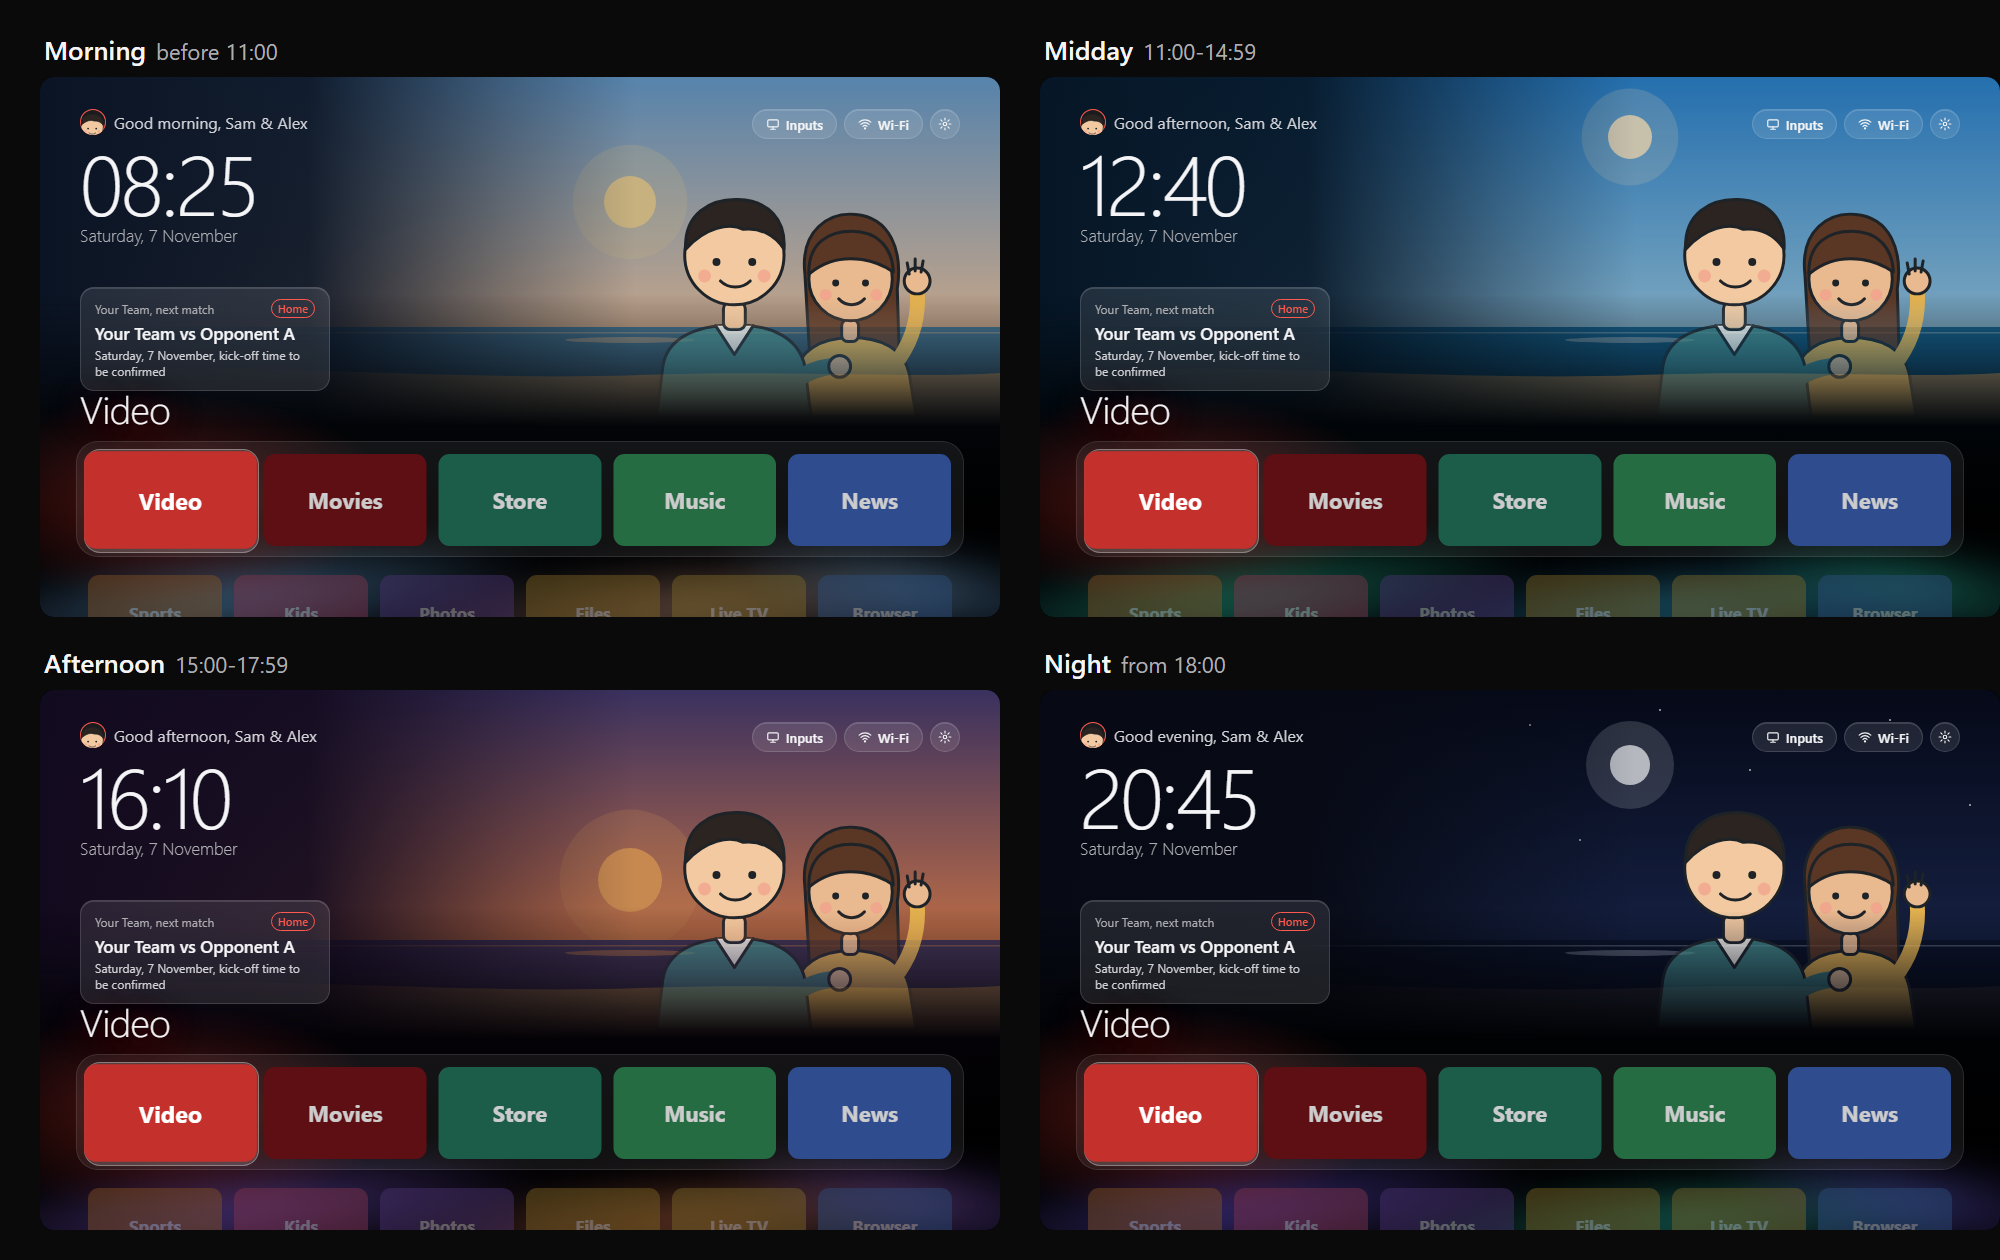
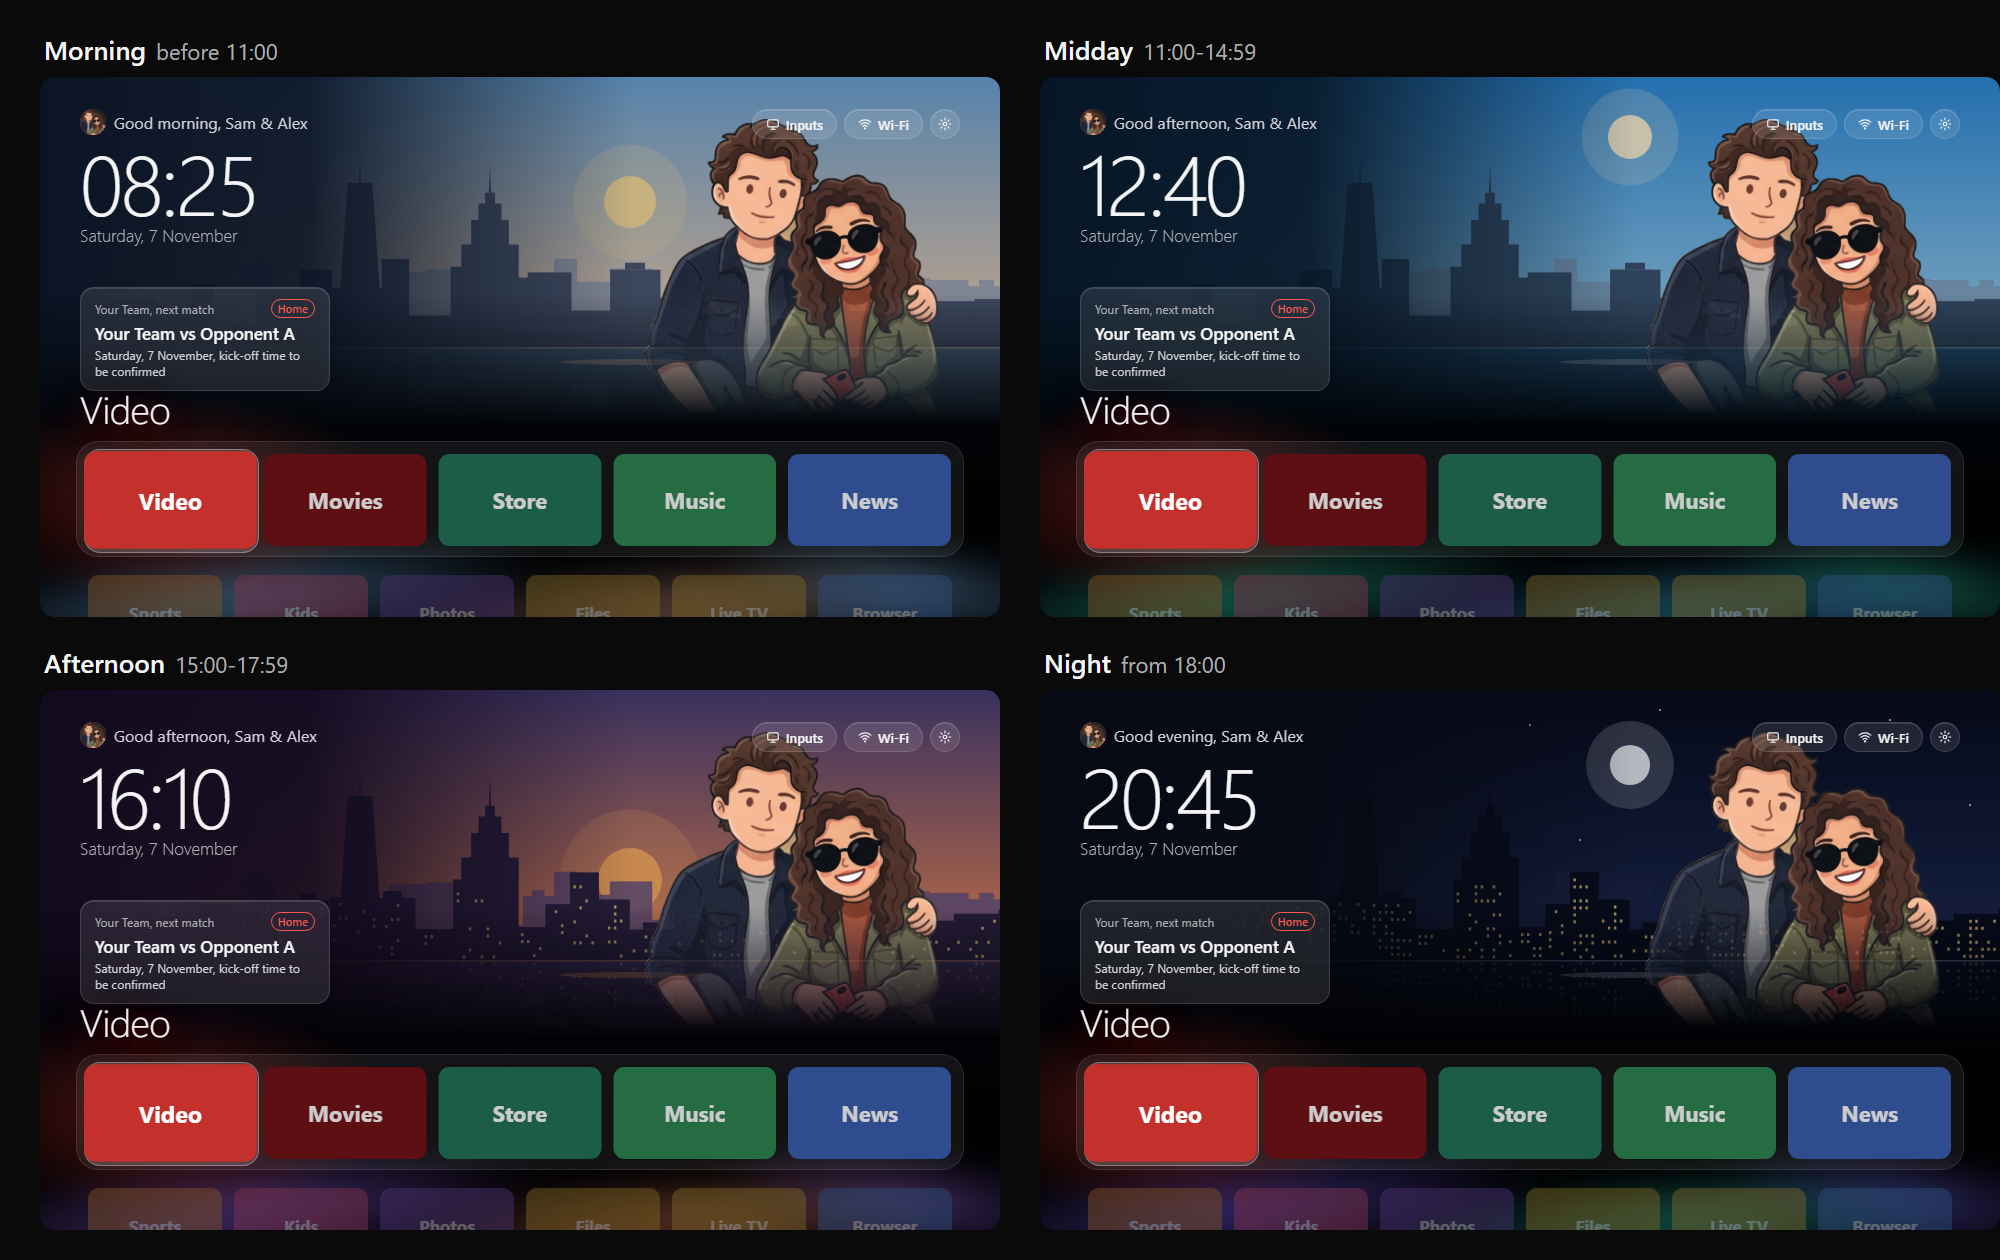
Mockup: example couple illustration and a New York skyline that follows the time of day

diff --git a/docs/mockup/index.html b/docs/mockup/index.html
@@ -34,10 +34,10 @@ const en = (q.get('lang') || 'en') === 'en';
 
 // Same colours as the app (launcher/.../Looks.kt).
 const SCENE = {
-  pagi:  { skyTop: '#6FA8DC', skyLow: '#FBD3B0', sun: '#FFE3A3', sunY: 250, sunR: 52, aSunY: 560, aSunR: 56, sea: '#5D9CC0', sheen: '#FFE3C2', sand: '#EED3A6', stars: 0 },
-  siang: { skyTop: '#2F8FE0', skyLow: '#9FD6F5', sun: '#FFF7DC', sunY: 120, sunR: 44, aSunY: 170, aSunR: 48, sea: '#1E7FB8', sheen: '#CFEFFF', sand: '#F1DCAE', stars: 0 },
-  sore:  { skyTop: '#4B3F7A', skyLow: '#F28C5A', sun: '#FFB067', sunY: 380, sunR: 64, aSunY: 680, aSunR: 72, sea: '#5B4A78', sheen: '#F6A06A', sand: '#D6A272', stars: 0 },
-  malam: { skyTop: '#070C1F', skyLow: '#1C2A55', sun: '#E9ECF5', sunY: 150, sunR: 40, aSunY: 210, aSunR: 44, sea: '#101C3D', sheen: '#AEB8D6', sand: '#34364E', stars: 0.9 }
+  pagi:  { skyTop: '#6FA8DC', skyLow: '#FBD3B0', sun: '#FFE3A3', sunY: 250, sunR: 52, aSunY: 560, aSunR: 56, sea: '#5D86A8', sheen: '#FFE3C2', far: '#9AA6BE', near: '#4F5B76', lit: 0, stars: 0 },
+  siang: { skyTop: '#2F8FE0', skyLow: '#9FD6F5', sun: '#FFF7DC', sunY: 120, sunR: 44, aSunY: 170, aSunR: 48, sea: '#2A6E9E', sheen: '#CFEFFF', far: '#86A6C6', near: '#3D5876', lit: 0, stars: 0 },
+  sore:  { skyTop: '#4B3F7A', skyLow: '#F28C5A', sun: '#FFB067', sunY: 380, sunR: 64, aSunY: 680, aSunR: 72, sea: '#4A3E6A', sheen: '#F6A06A', far: '#6A5584', near: '#2E2545', lit: 0.18, stars: 0 },
+  malam: { skyTop: '#070C1F', skyLow: '#1C2A55', sun: '#E9ECF5', sunY: 150, sunR: 40, aSunY: 210, aSunR: 44, sea: '#0C1633', sheen: '#AEB8D6', far: '#1B2549', near: '#0A0F22', lit: 0.42, stars: 0.9 }
 }[phase];
 const AUR = { pagi: ['#0B1424', '#FFB38A', '#7CC4FF'], siang: ['#061626', '#3FD0FF', '#2BD9A8'], sore: ['#120A1E', '#FF8A4C', '#9B6BFF'], malam: ['#070A14', '#2EE6C5', '#7B5CFF'] }[phase];
 const T = en
@@ -60,18 +60,52 @@ const ICON = {
 const rgba = (hex, a) => { const n = parseInt(hex.slice(1), 16); return `rgba(${n >> 16},${(n >> 8) & 255},${n & 255},${a})`; };
 const stars = (pts) => pts.map(([x, y]) => `<circle cx="${x}" cy="${y}" r="2"/>`).join('');
 
-function beachBand() {
-  const g = 'g' + phase;
+// New York: a far and a near row of towers on the river, three landmark silhouettes (a stepped tower with
+// a spire, a crown spire, a tapered tower), lit windows from the afternoon on, the near row mirrored in the water.
+function rnd(seed) { return () => { seed = (seed + 0x6D2B79F5) | 0; let t = Math.imul(seed ^ (seed >>> 15), 1 | seed); t ^= t + Math.imul(t ^ (t >>> 7), 61 | t); return ((t ^ (t >>> 14)) >>> 0) / 4294967296; }; }
+const f1 = (n) => n.toFixed(1);
+function towers(r, base, k, minH, maxH, centre, fill, lit) {
+  let x = -20, out = '', win = '';
+  while (x < 1940) {
+    const w = (44 + r() * 70) * k, mid = Math.exp(-(((x - centre) / 520) ** 2));
+    const h = (minH + r() * (maxH - minH) * (0.45 + 0.55 * mid)) * k;
+    out += `<rect x="${f1(x)}" y="${f1(base - h)}" width="${f1(w + 1)}" height="${f1(h)}"/>`;
+    if (r() < 0.25) out += `<rect x="${f1(x + w * 0.3)}" y="${f1(base - h - 14 * k)}" width="${f1(w * 0.4)}" height="${f1(14 * k)}"/>`;
+    if (lit) for (let wy = base - h + 12 * k; wy < base - 8 * k; wy += 14 * k) for (let wx = x + 7 * k; wx < x + w - 10 * k; wx += 12 * k)
+      if (r() < lit) win += `<rect x="${f1(wx)}" y="${f1(wy)}" width="${f1(5 * k)}" height="${f1(6 * k)}"/>`;
+    x += w;
+  }
+  return `<g fill="${fill}">${out}</g>` + (win ? `<g fill="#FFD98A" opacity="0.85">${win}</g>` : '');
+}
+function landmarks(base, k, x1, x2, x3, fill) {
+  const P = (pts) => `<path d="M${pts.map(([dx, y]) => `${f1(dx)} ${f1(base - y * k)}`).join(' L')} Z"/>`;
+  const sym = (cx, half) => P([...half.map(([dx, y]) => [cx - dx * k, y]), ...half.slice().reverse().map(([dx, y]) => [cx + dx * k, y])]);
+  return `<g fill="${fill}">
+    ${sym(x1, [[70, 0], [70, 250], [46, 250], [46, 310], [28, 310], [28, 350], [12, 350], [12, 376], [3, 376], [0, 440]])}
+    ${sym(x2, [[34, 0], [34, 270], [26, 300], [18, 322], [8, 340], [2, 352], [0, 400]])}
+    ${sym(x3, [[52, 0], [52, 90], [30, 400], [2, 400], [0, 470]])}</g>`;
+}
+function city(id, H, horizon, k, sunX, sunY, sunR, starPts, marks) {
+  const r = rnd(7), W = 1920;
+  const far = towers(r, horizon, k * 0.9, 70, 240, marks[0], SCENE.far, 0);
+  const near = landmarks(horizon, k * 0.82, ...marks, SCENE.near) + towers(r, horizon, k, 40, 190, marks[0], SCENE.near, SCENE.lit);
+  return `<svg class="abs" viewBox="0 0 ${W} ${H}" style="left:0;top:0;width:${W}px;height:${H}px">
+    <defs><linearGradient id="${id}" x1="0" y1="0" x2="0" y2="1"><stop offset="0" stop-color="${SCENE.skyTop}"/><stop offset="1" stop-color="${SCENE.skyLow}"/></linearGradient>
+      <clipPath id="${id}w"><rect y="${horizon}" width="${W}" height="${H - horizon}"/></clipPath></defs>
+    <rect width="${W}" height="${horizon}" fill="url(#${id})"/>
+    <g fill="#fff" opacity="${SCENE.stars}">${stars(starPts)}</g>
+    <circle cx="${sunX}" cy="${sunY}" r="${sunR * 2.2}" fill="${SCENE.sun}" opacity="0.22"/><circle cx="${sunX}" cy="${sunY}" r="${sunR}" fill="${SCENE.sun}"/>
+    <g opacity="0.85">${far}</g>${near}
+    <rect y="${horizon}" width="${W}" height="${H - horizon}" fill="${SCENE.sea}"/>
+    <g clip-path="url(#${id}w)"><g opacity="0.28" transform="translate(0 ${2 * horizon}) scale(1 -1)">${near}</g></g>
+    <rect y="${horizon}" width="${W}" height="3" fill="${SCENE.sheen}" opacity="0.45"/>
+    <ellipse cx="${sunX}" cy="${horizon + 30}" rx="140" ry="6" fill="${SCENE.sheen}" opacity="0.5"/>
+  </svg>`;
+}
+
+function cityBand() {
   return `<div class="abs" style="left:0;top:0;width:1920px;height:700px;-webkit-mask-image:linear-gradient(to bottom,#000 62%,transparent);mask-image:linear-gradient(to bottom,#000 62%,transparent)">
-    <svg class="abs" viewBox="0 0 1920 700" style="left:0;top:0;width:1920px;height:700px">
-      <defs><linearGradient id="${g}" x1="0" y1="0" x2="0" y2="1"><stop offset="0" stop-color="${SCENE.skyTop}"/><stop offset="1" stop-color="${SCENE.skyLow}"/></linearGradient></defs>
-      <rect width="1920" height="500" fill="url(#${g})"/>
-      <g fill="#fff" opacity="${SCENE.stars}">${stars([[980, 70], [1240, 40], [1420, 160], [1700, 60], [1860, 230], [1080, 300]])}</g>
-      <circle cx="1180" cy="${SCENE.sunY}" r="${SCENE.sunR * 2.2}" fill="${SCENE.sun}" opacity="0.22"/><circle cx="1180" cy="${SCENE.sunY}" r="${SCENE.sunR}" fill="${SCENE.sun}"/>
-      <rect y="500" width="1920" height="200" fill="${SCENE.sea}"/><rect y="510" width="1920" height="3" fill="${SCENE.sheen}" opacity="0.5"/>
-      <ellipse cx="1180" cy="526" rx="130" ry="6" fill="${SCENE.sheen}" opacity="0.6"/>
-      <path d="M0 590 C 400 565 800 610 1200 596 C 1500 585 1750 604 1920 592 L1920 700 L0 700 Z" fill="${SCENE.sand}"/>
-    </svg>
+    ${city('g' + phase, 700, 540, 1, 1180, SCENE.sunY, SCENE.sunR, [[980, 70], [1240, 40], [1420, 160], [1700, 60], [1860, 230], [1080, 300]], [900, 1430, 640])}
     <div class="abs" style="inset:0;background:rgba(0,0,0,0.22)"></div>
     <div class="abs" style="inset:0;background:linear-gradient(to right,${AUR[0]} 0%,${rgba(AUR[0], 0.92)} 28%,${rgba(AUR[0], 0.35)} 48%,transparent 62%)"></div>
   </div>`;
@@ -87,7 +121,7 @@ function aurora() {
 
 function avatar(size) {
   return `<span class="abs" style="position:relative;display:inline-block;width:${size}px;height:${size}px;border-radius:50%;overflow:hidden;background:#1C1C1E;box-shadow:inset 0 0 0 2px #FF5A4F;flex:none">
-    <img src="example-couple.svg" style="position:absolute;width:${size * 2.6}px;height:${size * 2.6}px;left:${-size * 0.35}px;top:${-size * 0.45}px"></span>`;
+    <img src="example-avatar.webp" style="width:100%;height:100%;display:block"></span>`;
 }
 
 function home(apps) {
@@ -96,9 +130,9 @@ function home(apps) {
   const glowX = apps ? 96 + 3 * 292 + 134 : 96 + tileW / 2, glowY = apps ? 996 + 75 : 844;
   const glowC = apps ? APPS[3][1] : APPS[0][1];
   const page = `
-    ${aurora()}${beachBand()}
+    ${aurora()}${cityBand()}
     <div class="abs" style="left:${glowX - 450}px;top:${glowY - 210}px;width:900px;height:420px;border-radius:50%;background:radial-gradient(closest-side,${rgba(glowC, 0.42)},transparent)"></div>
-    <img class="abs" src="example-couple.svg" style="left:1200px;top:96px;width:600px;height:596px;-webkit-mask-image:linear-gradient(to bottom,#000 58%,transparent 98%);mask-image:linear-gradient(to bottom,#000 58%,transparent 98%)">
+    <img class="abs" src="example-characters.webp" style="left:1210px;top:84px;width:590px;height:605px;-webkit-mask-image:linear-gradient(to bottom,#000 58%,transparent 98%);mask-image:linear-gradient(to bottom,#000 58%,transparent 98%)">
     <div class="abs" style="left:80px;top:64px">
       <div style="display:flex;align-items:center;gap:16px">${avatar(52)}<span style="font-size:32px;color:#D1D1D6">${T.greet}, ${NAMES}</span></div>
       <div style="font-size:168px;font-weight:200;letter-spacing:-6px;line-height:1;margin-top:8px">${CLOCK}</div>
@@ -129,21 +163,12 @@ function home(apps) {
 }
 
 function idle() {
-  const g = 'a' + phase;
   return `
     <div class="abs" style="left:0;top:0;width:1920px;height:1080px;-webkit-mask-image:linear-gradient(to right,#000 0%,#000 40%,rgba(0,0,0,0.7) 55%,rgba(0,0,0,0.5) 70%,rgba(0,0,0,0.45) 100%);mask-image:linear-gradient(to right,#000 0%,#000 40%,rgba(0,0,0,0.7) 55%,rgba(0,0,0,0.5) 70%,rgba(0,0,0,0.45) 100%)">
-      <svg class="abs" viewBox="0 0 1920 1080" style="left:0;top:0;width:1920px;height:1080px">
-        <defs><linearGradient id="${g}" x1="0" y1="0" x2="0" y2="1"><stop offset="0" stop-color="${SCENE.skyTop}"/><stop offset="1" stop-color="${SCENE.skyLow}"/></linearGradient></defs>
-        <rect width="1920" height="800" fill="url(#${g})"/>
-        <g fill="#fff" opacity="${SCENE.stars}">${stars([[160, 90], [420, 200], [700, 80], [880, 320], [300, 380]])}</g>
-        <circle cx="760" cy="${SCENE.aSunY}" r="${SCENE.aSunR * 2.2}" fill="${SCENE.sun}" opacity="0.22"/><circle cx="760" cy="${SCENE.aSunY}" r="${SCENE.aSunR}" fill="${SCENE.sun}"/>
-        <rect y="800" width="1920" height="280" fill="${SCENE.sea}"/><rect y="812" width="1920" height="4" fill="${SCENE.sheen}" opacity="0.5"/>
-        <ellipse cx="760" cy="830" rx="140" ry="7" fill="${SCENE.sheen}" opacity="0.6"/>
-        <path d="M0 920 C 300 890 650 950 1100 924 C 1450 908 1700 940 1920 926 L1920 1080 L0 1080 Z" fill="${SCENE.sand}"/>
-      </svg>
+      ${city('a' + phase, 1080, 860, 1.3, 760, SCENE.aSunY, SCENE.aSunR, [[160, 90], [420, 200], [700, 80], [880, 320], [300, 380]], [980, 1500, 520])}
       <div class="abs" style="inset:0;background:rgba(0,0,0,0.22)"></div>
     </div>
-    <img class="abs" src="example-couple.svg" style="left:107px;top:431px;width:653px;height:649px">
+    <img class="abs" src="example-characters.webp" style="left:107px;top:422px;width:642px;height:658px">
     <div class="abs" style="inset:0;background:linear-gradient(to right,transparent 0%,transparent 31%,rgba(0,0,0,0.34) 50%,rgba(0,0,0,0.6) 64%,rgba(0,0,0,0.8) 72%,rgba(0,0,0,0.8) 100%)"></div>
     <div class="abs" style="right:112px;top:96px;display:flex;align-items:center;gap:24px">
       <div style="text-align:right"><div style="font-size:38px">${NAMES}</div><div style="font-size:26px;font-weight:300;color:#AEAEB2">${T.greet}</div></div>

diff --git a/README.md b/README.md
@@ -19,17 +19,19 @@ most Android TV / Google TV sets with Android 8.0 or newer.
 
 ## Screenshots
 
-From the public mockup in [docs/mockup/](docs/mockup/) (open `index.html` in a browser), with **example
-people** ("Sam & Alex", drawn for this repo). On your TV they are replaced by your own names, avatar and
-characters from `config.json` and `assets/custom/` (see [docs/CUSTOMIZE.md](docs/CUSTOMIZE.md)).
+From the public mockup in [docs/mockup/](docs/mockup/) (open `index.html` in a browser), with an **example
+couple** ("Sam & Alex", fictional names) in front of a **New York skyline**. On your TV they are replaced by
+your own names, avatar and characters from `config.json` and `assets/custom/` (see
+[docs/CUSTOMIZE.md](docs/CUSTOMIZE.md)). The launcher itself ships with a beach scene (`Backdrop.kt`); the
+skyline here shows that the scene can be any place you like, as long as it follows the time of day.
 
 ![Home](docs/screenshots/home.png)
 
 ### It follows the time of day
 
-The beach (sky, sun or moon, sea, sand), the aurora under it and the greeting change by themselves:
-**morning** before 11:00, **midday** 11:00-14:59, **afternoon** 15:00-17:59, **night** from 18:00
-(with the moon and stars). Each scene is painted once when the time of day changes, so it costs nothing
+The scene (sky, sun or moon, towers, river), the aurora under it and the greeting change by themselves:
+**morning** before 11:00, **midday** 11:00-14:59, **afternoon** 15:00-17:59 (the first windows light up),
+**night** from 18:00 (moon, stars and a lit city mirrored in the river). Each scene is painted once when the time of day changes, so it costs nothing
 while you watch.
 
 ![The home screen at the four times of day](docs/screenshots/times-home.png)
@@ -37,7 +39,7 @@ while you watch.
 ### All apps and the idle screen
 
 Press Down on the dock to scroll to every installed app. When the TV is idle, the screensaver shows the
-same beach, your characters on the left and a large clock on the right.
+same scene, your characters on the left and a large clock on the right.
 
 | All apps | Idle screen |
 |---|---|
